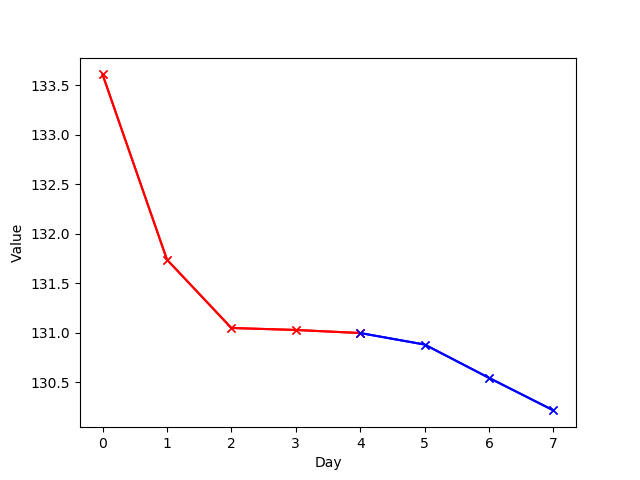
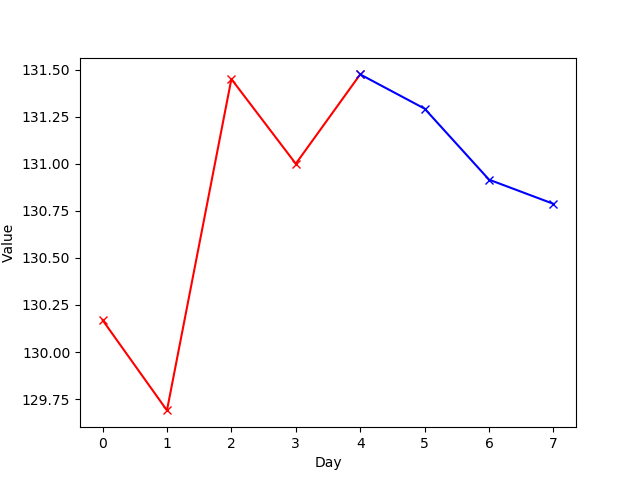
updates

diff --git a/templates/predictions.html b/templates/predictions.html
@@ -36,7 +36,7 @@
 									</div>
 									
 									<div id="predictionBox" class="box">
-										<img class="predictionImage" src="/static/img/basicPrediction.png">
+										<img class="predictionImage" src={{imgSRC}}>
 									</div>
 												
 									<div id="predictionBox" style="text-align: left;  vertical-align: top; padding-top: 2%;" class="box">
@@ -46,16 +46,21 @@
                                 </div>
                                 
 								<div style="height: 6%" class="twoRow">
+
 									<div id="predictionBox" class="box">
-									    <button style=""class="downloadBtn">
+										<a href={{imgSRC}} download>
+									    <button class="downloadBtn">
 									    <i class="fa fa-download"></i> Download image
-									    </button>
+										</button>
+										</a>
 								    </div>
 								
 								    <div id="predictionBox" class="box">
+										<a href="/static/img/data.csv" download>
 									    <button  class="downloadBtn">
 									    <i class="fa fa-download"></i> Download as csv
-                                        </button>
+										</button>
+										</a>
 								    </div>
 								
 								    <div id="predictionBox" class="box">

diff --git a/application.py b/application.py
@@ -24,12 +24,9 @@ for gpu in gpus:
     tf.config.experimental.set_memory_growth(gpu, True)
 tf.config.experimental.set_virtual_device_configuration(gpus[0], [tf.config.experimental.VirtualDeviceConfiguration(memory_limit=128)])
 
-def initModel():
-    print("HEEEEEEEEEEEEEEEEEEEEEEEERRRRRRRRRRRRRRRRRRRRRRRRRRREEE")
-    global model
-    model = load_model('/var/www/html/StockPredictor/basic/tempModel.h5', compile = False)
+model = load_model('/var/www/html/StockPredictor/basic/tempModel.h5', compile = False)
 
-initModel()
+
 
 #export FLASK_APP=/var/www/html/FlaskStuff/async_flask/application.py 
 #flask run --host=0.0.0.0
@@ -158,7 +155,9 @@ def predictions():
 
 @app.route('/basicUploader', methods = ['GET', 'POST']) #function to process the entered data to the basic page
 def basicUploader2():
-    
+
+    model = load_model('/var/www/html/StockPredictor/basic/tempModel.h5', compile = False)
+
 
     if request.method == 'POST':
 
@@ -208,27 +207,18 @@ def basicUploader2():
             processedData= getStockData(stockTicker) 
             
         valid, error = validateCSVData(processedData, True, 60, "basic")
-        #print(error)
+
         if (valid!=0): #the user can upload whatever data they want. This function validates that the uploaded data has integers on everyline 
             return render_template('error.html', message=error) # return an error if there are not ints OR not enough data
-            
-        '''
-        generate predictions
-        generate graph
-        
-        '''
-        #print("Printing data")
-        #sleep(2)
-        #print(processedData)
 
-        sc = MinMaxScaler(feature_range = (0, 1))
-
-        scaledArray = numpy.array(processedData)
-        scaledArray = scaledArray .reshape(-1,1)
-        scaledArray = sc.fit_transform(scaledArray )
+        sc = MinMaxScaler(feature_range = (0, 1)) #defines a new scaling function
+ 
+        scaledArray = numpy.array(processedData) #creates a numpy array
+        scaledArray = scaledArray .reshape(-1,1) #reshapes 
+        scaledArray = sc.fit_transform(scaledArray ) #scales data 
 
         newScaled=[]
-        for x in scaledArray :
+        for x in scaledArray : #sometimes, after scalling data can include 1,0 or nan after scalling. These must be removed 
             if( int(x[0])!=1 or int(x[0])!=0 or str(x[0])!="nan"):
                 newScaled.append(float(x[0]))
 
@@ -241,46 +231,56 @@ def basicUploader2():
         #sleep(2)
         #print(newScaled[-60:])
 
-        xNew = numpy.array(newScaled[-60:])
+        xNew = numpy.array(newScaled[-60:]) #get 60 recent days
         
         #print(xNew)
         #print("here")
         
         #print("here2")
-        xNew = xNew.reshape((1,60,1))
-        yNew = model.predict(xNew, verbose=1)
-        unscaledY = sc.inverse_transform(yNew)
 
-        yNew = yNew[0]
-        unscaledY=unscaledY[0]
+        xNew = xNew.reshape((1,60,1)) #reshapes the array ready for predictions 
+        yNew = model.predict(xNew, verbose=1) #predicts new stock value
+        unscaledY = sc.inverse_transform(yNew) #this unscales the data
+
+        yNew = yNew[0] #converts the 2d array back to 1d
+        unscaledY=unscaledY[0] #converts the 2d array back to 1d
 
         #print(yNew)
 
         #print(unscaledY, unscaledY[0])
         #print(processedData[-4:])
 
-        link = processedData[-4:]
-        link.append(unscaledY[0] )
+        link = processedData[-4:] #this takes the 4 most recent 
+        link.append(unscaledY[0] ) #adds the first predicted value. This makes the graph connect up
 
-        plt.plot( [0,1,2,3,4], link , "-x", color='red')
-        plt.plot( [4,5,6,7], unscaledY , "-x", color='blue')
         
-        plt.xlabel("Day")
-        plt.ylabel("Value")
-        
-        plt.savefig('/var/www/html/StockPredictor/static/img/basicPrediction.png')
+        f = open('/var/www/html/StockPredictor/static/img/data.csv', "w")
+        for row in unscaledY:
+            f.writelines(str(row), "\n")
+        f.close()
 
-        if(stockTicker!=""):
-            
-            name, summary = getStockInfo(stockTicker)   
+
+
+        plt.plot( [0,1,2,3,4], link , "-x", color='red') #this plots the previous stock values in red
+        plt.plot( [4,5,6,7], unscaledY , "-x", color='blue') # this plots the predicted stock values in blue
+        
+        plt.xlabel("Day") #provides the label for the X axis
+        plt.ylabel("Value") #providesw the label for the Y axis
+        
+        plt.savefig('/var/www/html/StockPredictor/static/img/basicPrediction.png') #this saves the generated graph
+
+
+
+        if(stockTicker!=""): #if the user has chosen a stock ticker
+            name, summary = getStockInfo(stockTicker)    #gets the stock ticker name and summary
           
         del model  
         #tensorflow.keras.clear_session()
         
         
-
+        imgSRC = "/static/img/basicPrediction.png" #this variable points to the location of saved image
         
-        return render_template('predictions.html', stockName=name, stockTicker=str(stockTicker), link=link, summary=summary)
+        return render_template('predictions.html', stockName=name, stockTicker=str(stockTicker), link=link, imgSRC=imgSRC, summary=summary)
 
 @app.route('/advancedUploader', methods = ['GET', 'POST'])
 def advancedUploader2():
